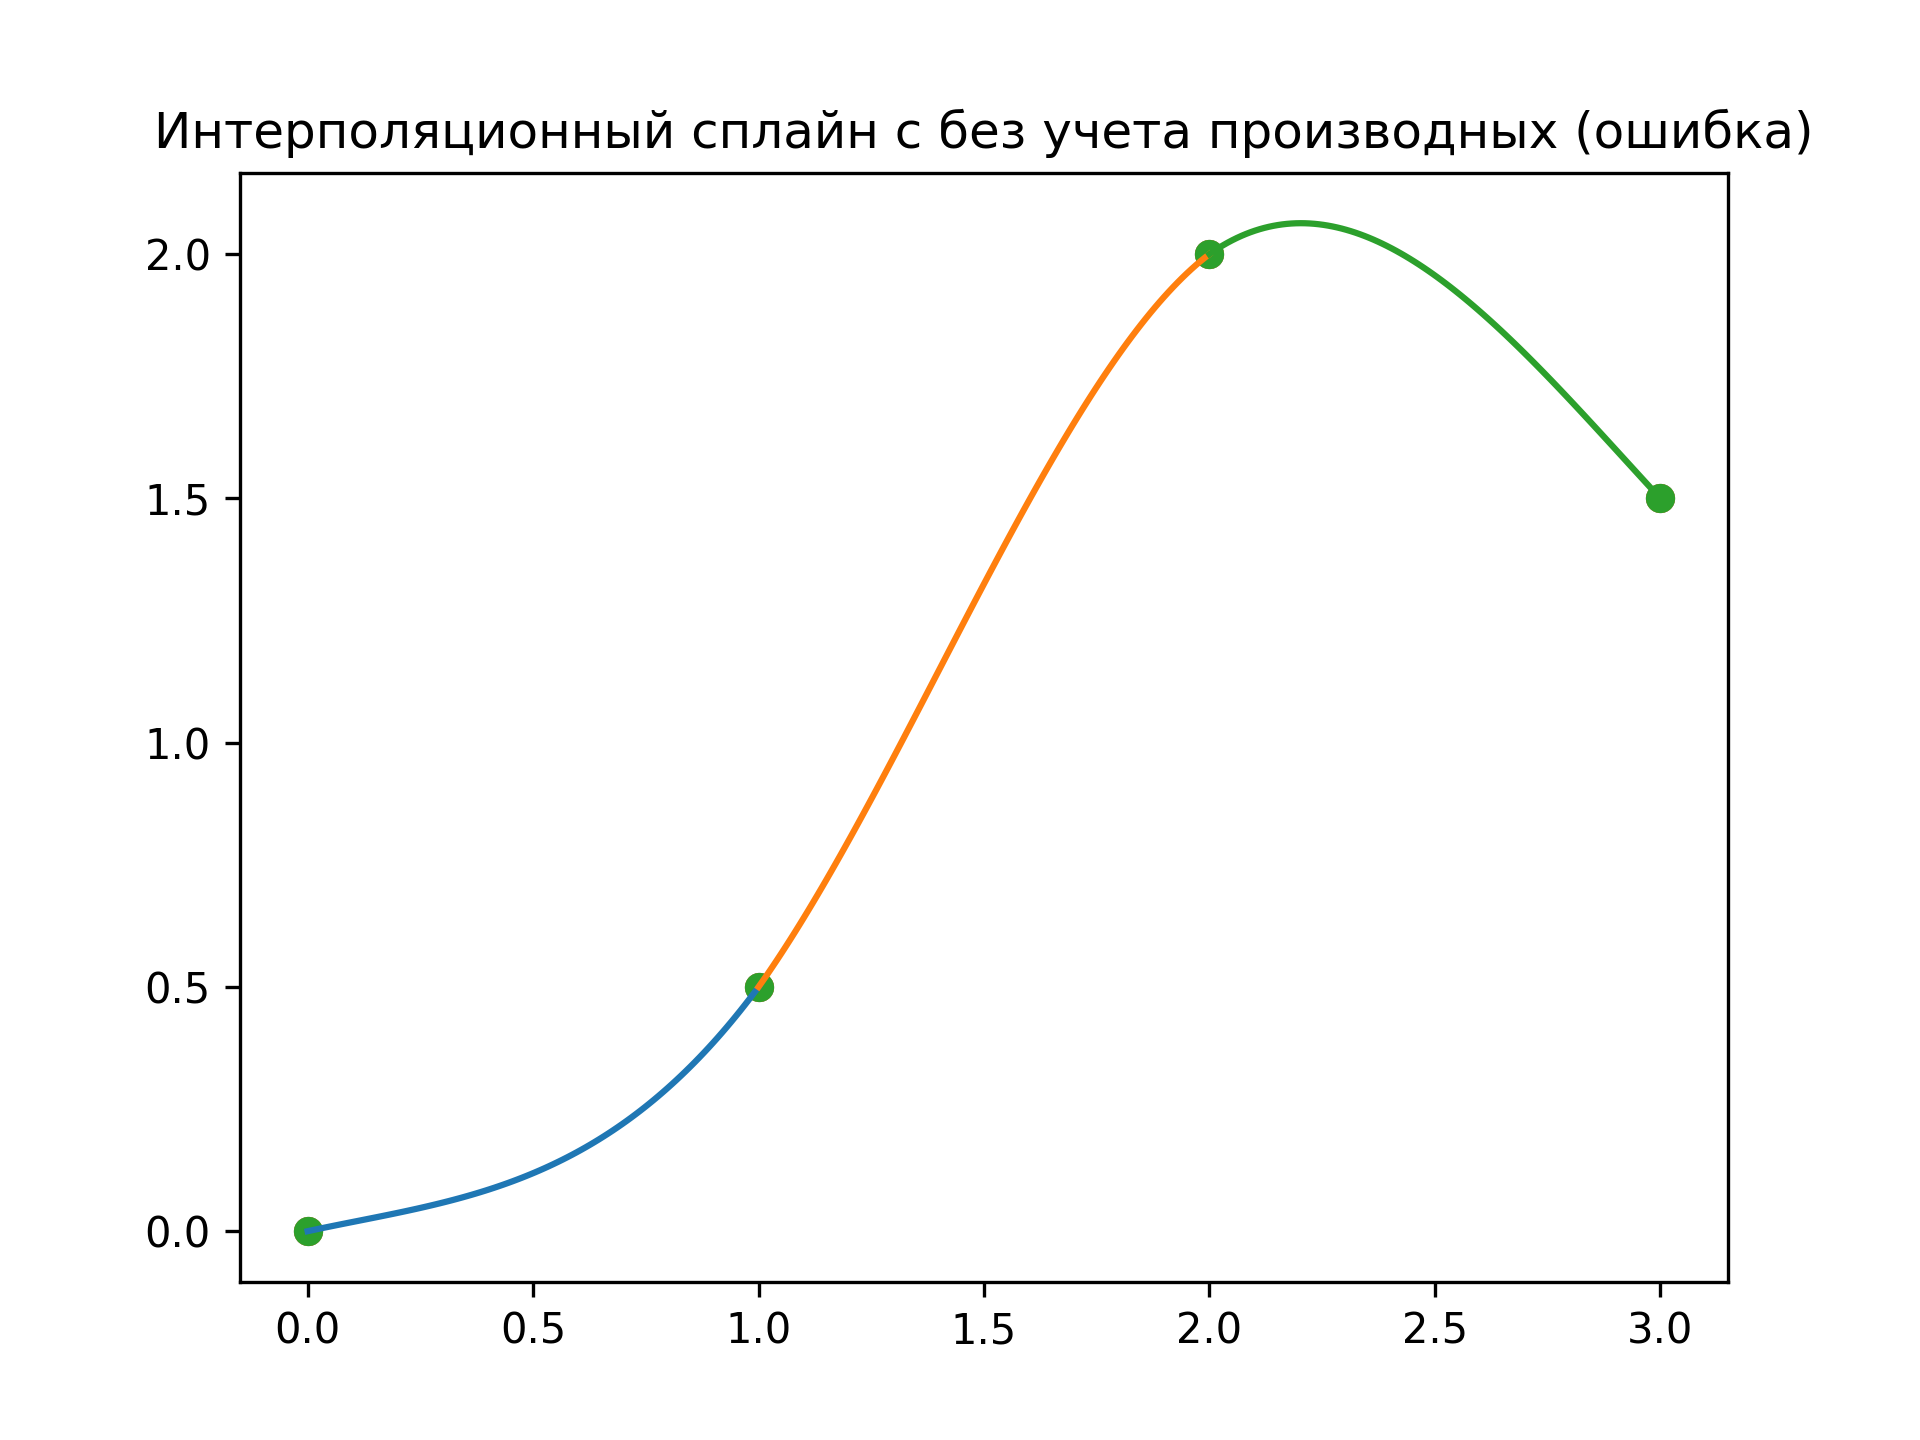
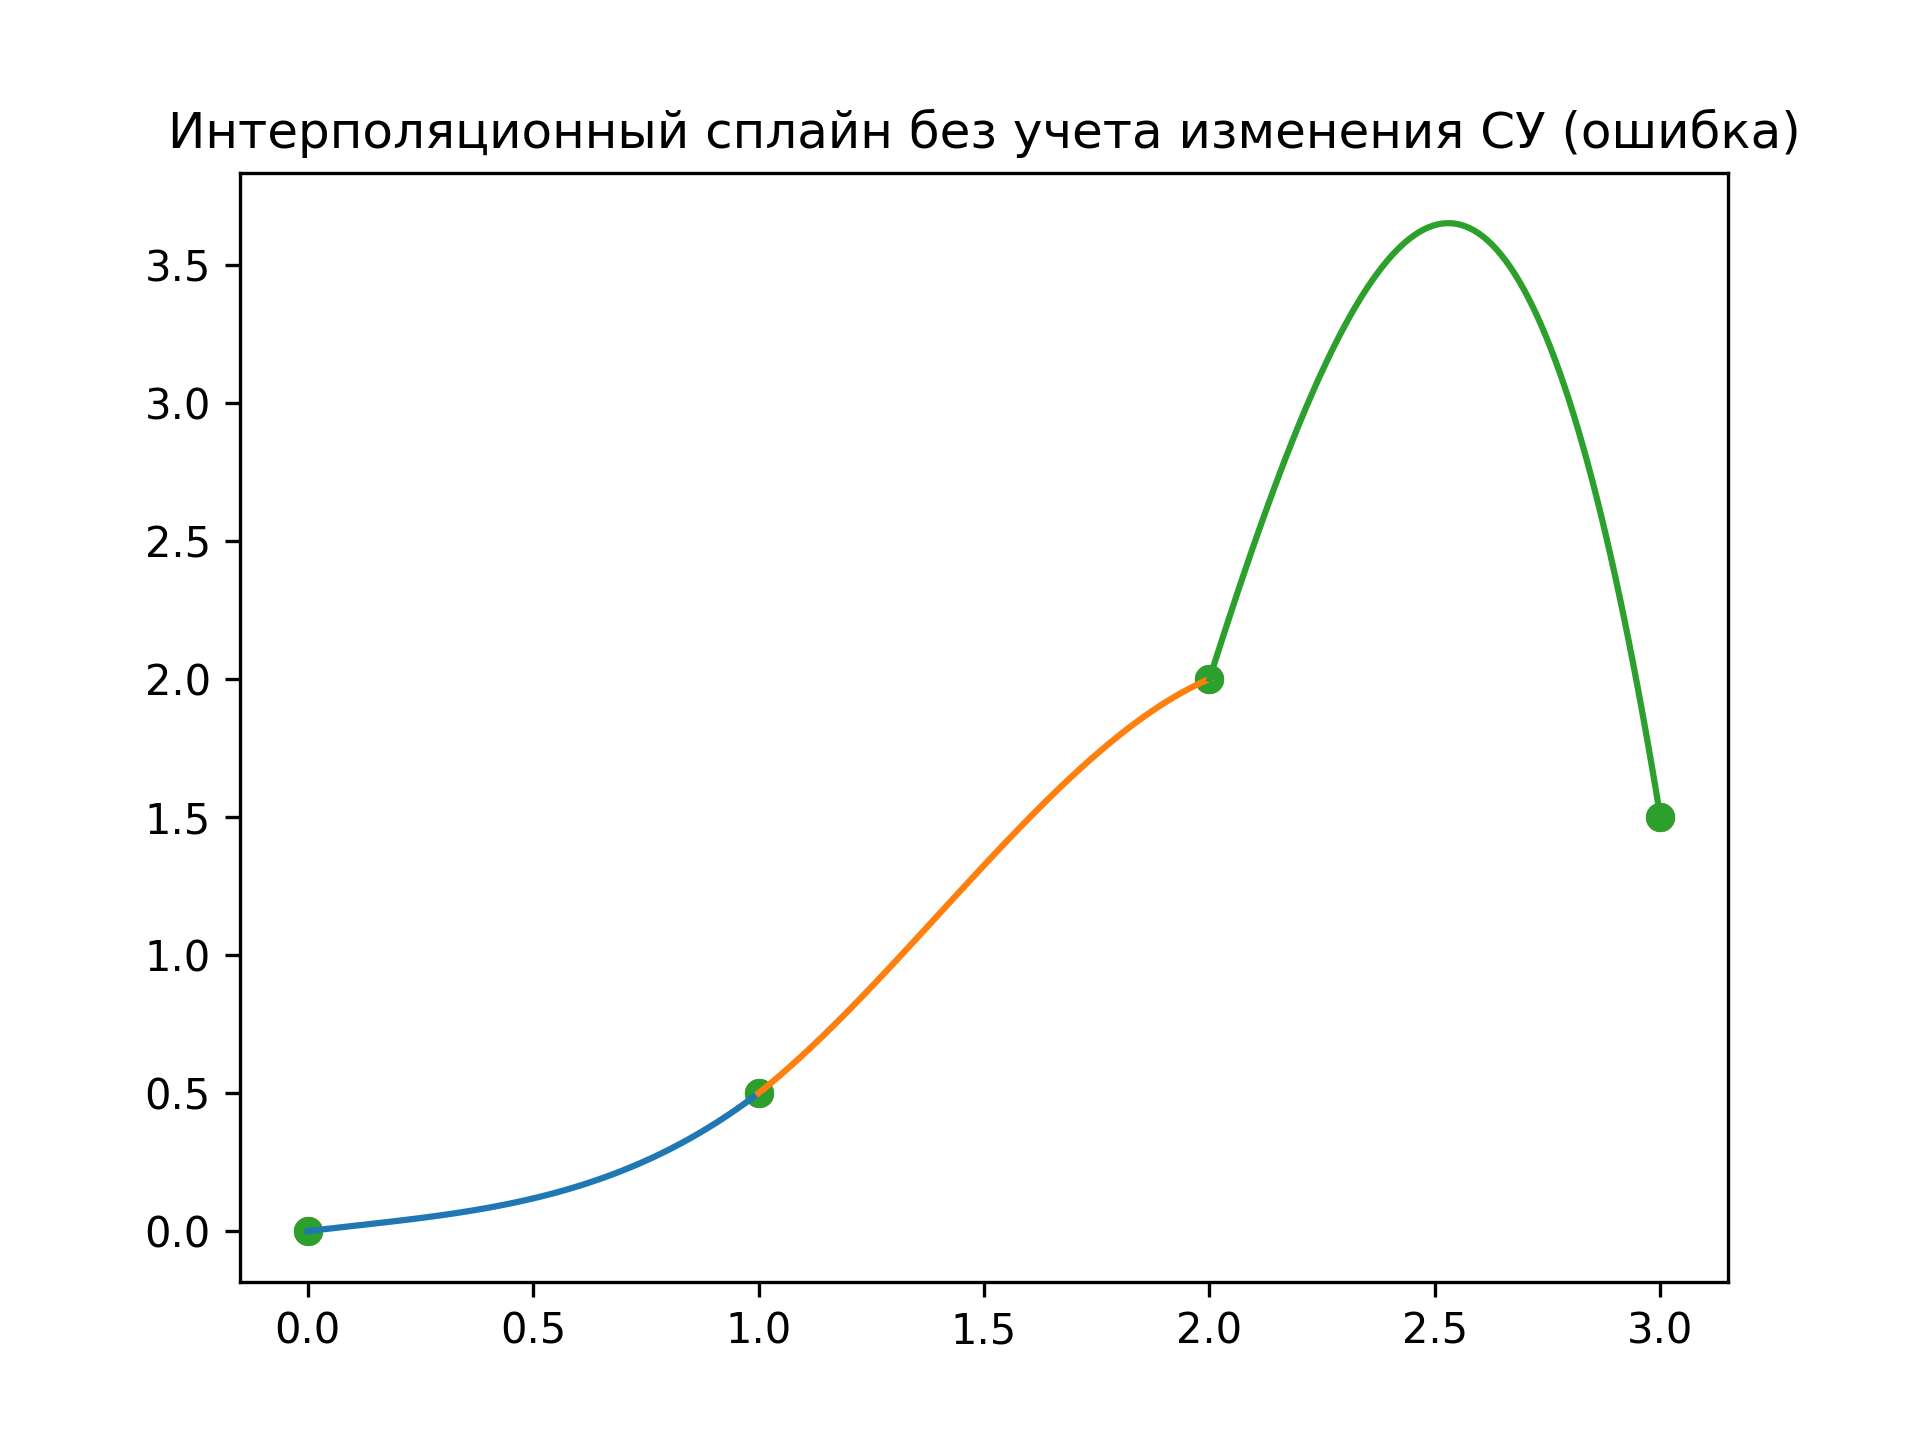
#00000024

diff --git a/seminar3/2-2026_09_25.py b/seminar3/2-2026_09_25.py
@@ -1,13 +1,12 @@
 
 import numpy as np
 import matplotlib.pyplot as plt
-from sympy import derive_by_array
 
 x_observed = np.array([0, 1, 2, 3])
 y_observed = np.array([0, 0.5, 2, 1.5])
 
 der_a = 0.2
-der_b = -1
+der_b = -10
 
 h = x_observed[1:] - x_observed[:-1]
 d = (y_observed[1:] - y_observed[:-1]) / h
@@ -17,20 +16,17 @@ A_up = np.diag(h[1:-1], k=1)
 A_middle = np.diag(2 * (h[1:] + h[:-1]), k=0)
 A_down = np.diag(h[1:-1], k=-1)
 
-print(A_up)
-print(A_middle)
-print(A_down)
 
 A = A_up + A_middle + A_down
 
-A[0][0] = 1.5 * h[0] + 2 * h[1]
-A[-1][-1] = 2 * h[-2] + 1.5 * h[-1]
+A[0][0] -= 0.5 * h[0]
+A[-1][-1] -= 0.5 * h[-1]
 
 b[0] -= 3 * (d[0] - der_a)
 b[-1] -= 3 * (der_b - d[-1])
 
 m = np.linalg.solve(A, b)
-print(m)
+
 m_0 = 3 / h[0] * (d[0] - der_a) - m[0] / 2
 m_N = 3 / h[-1] * (der_b - d[-1]) - m[-1] / 2
 
@@ -39,16 +35,14 @@ m = np.hstack([m_0, m, m_N])
 coef0 = y_observed[:-1]
 coef1 = d - h / 6 * (2 * m[:-1] + m[1:])
 coef2 = m[:-1] / 2
-coef3 = (m[1:] - m[:-1]) / 6 * h
-print(coef0)
-print(coef1)
-print(coef2)
-print(coef3)
+coef3 = (m[1:] - m[:-1]) / (6 * h)
 
-for k in range(len(coef3)):
+plt.plot(x_observed, y_observed, 'o', label='data')
+for k in range(len(coef0)):
     bins = np.linspace(x_observed[k], x_observed[k + 1], 100) - x_observed[k]
-    plt.plot(x_observed, y_observed, 'o', label='data')
+
     y = np.polyval([coef3[k], coef2[k], coef1[k], coef0[k]], bins)
     plt.plot(x_observed[k] + bins, y)
+plt.title("Интерполяционный сплайн с изменением СУ (правильно)")
 plt.savefig('2_cubic_my.png', dpi=300)
 plt.show()

diff --git a/seminar3/2-2026_09_19_seminar.py b/seminar3/2-2026_09_19_seminar.py
@@ -7,7 +7,7 @@ from scipy.interpolate import CubicSpline
 
 
 der_a = 0.2
-der_b = -1
+der_b = -10
 
 x_observed = np.array([0, 1, 2, 3])
 y_observed = np.array([0, 0.5, 2, 1.5])
@@ -47,6 +47,6 @@ for i in range(len(A3)):
     y = np.polyval([A3[i], A2[i], A1[i], A0[i]], bins)
     plt.scatter(x_observed, y_observed)
     plt.plot(bins + x_observed[i], y)
-plt.title("Интерполяционный сплайн с без учета производных (ошибка)")
+plt.title("Интерполяционный сплайн без учета изменения СУ (ошибка)")
 plt.savefig('2_seminar_error.png', dpi=300)
 plt.show()
